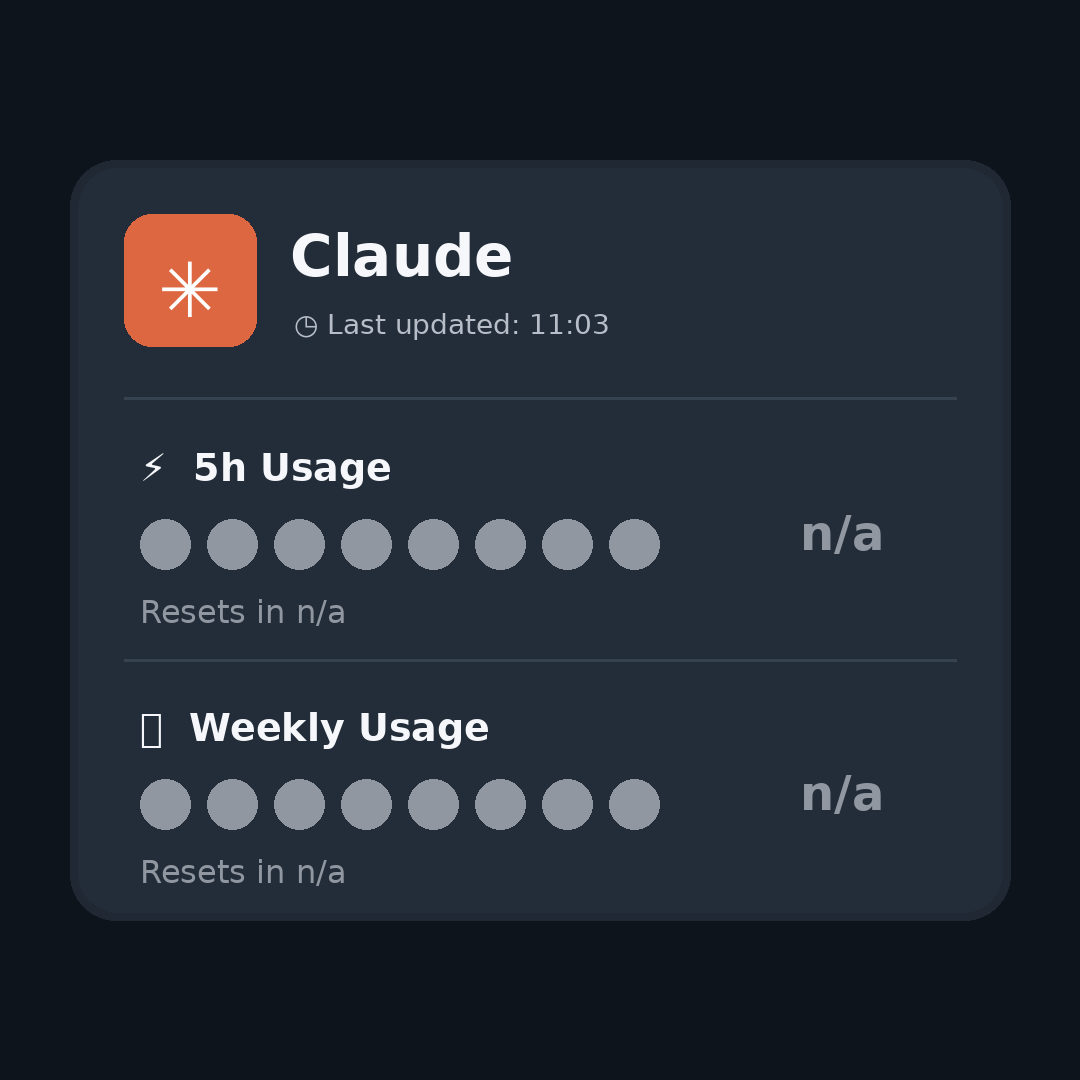
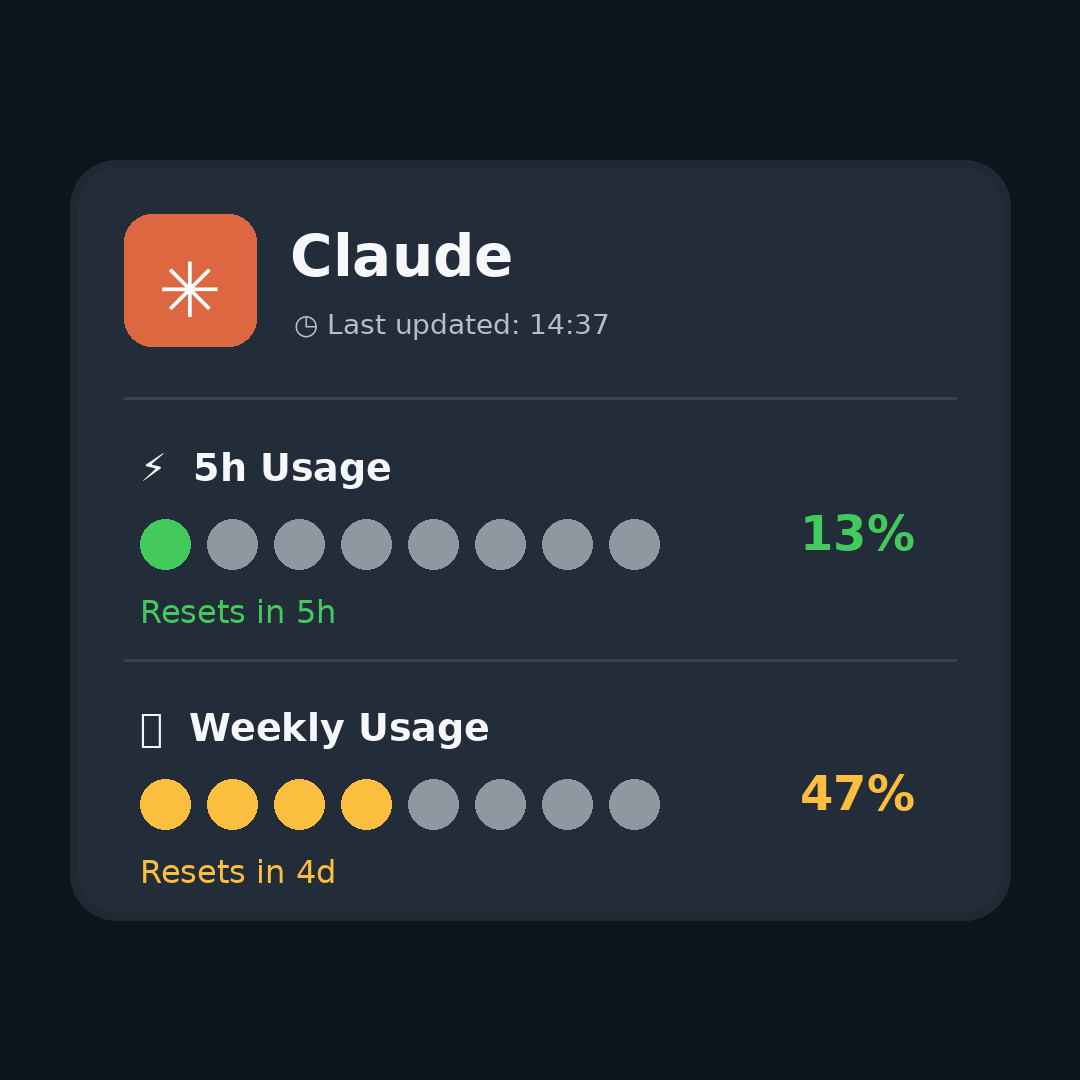
fix claude data: scraper URL matching, bad dump detection, session sync from project files
- usage-page-scrape.py: match claude.ai/new#settings/usage (hash-routing URL)
  in addition to claude.ai/settings/usage; warn when scraped body lacks
  expected content (catches wrong-tab captures like ChatGPT content)
- sync-usage-percentages.py: strip # header comment lines before provider
  detection so the marker comment never triggers a false match
- sync-usage.py: read Claude sessions from ~/.claude/projects/**/<session>.jsonl
  instead of the defunct token-usage.jsonl; add cwd_from_project_dir() to
  resolve ambiguous hyphen-encoded paths via filesystem existence checks

diff --git a/scripts/sync-usage.py b/scripts/sync-usage.py
@@ -5,7 +5,7 @@
 This script is the canonical local ingestion layer for AI Token Tracker.
 
 It reads:
-- Claude Code usage snapshots from ~/.claude/token-usage.jsonl
+- Claude Code usage snapshots from ~/.claude/projects/**/<session>.jsonl
 - Codex CLI thread usage from ~/.codex/state_5.sqlite
 
 It writes normalized rows into usage_sessions.
@@ -36,7 +36,7 @@ PROJECT_DIR = Path(__file__).resolve().parents[1]
 DB_PATH = PROJECT_DIR / "usage.sqlite"
 
 CLAUDE_DIR = HOME / ".claude"
-CLAUDE_TOKEN_LOG = CLAUDE_DIR / "token-usage.jsonl"
+CLAUDE_PROJECTS_DIR = CLAUDE_DIR / "projects"
 
 CODEX_DB = HOME / ".codex" / "state_5.sqlite"
 
@@ -262,103 +262,132 @@ def insert_session_snapshot(conn: sqlite3.Connection, row: dict[str, Any]) -> No
     )
 
 
-def load_latest_claude_snapshots() -> dict[str, dict[str, Any]]:
-    """Load the latest Claude usage snapshot per session id."""
-    latest_by_session: dict[str, dict[str, Any]] = {}
+def cwd_from_project_dir(dir_name: str) -> str:
+    """Decode a Claude project directory name back to its filesystem path.
 
-    if not CLAUDE_TOKEN_LOG.exists():
-        return latest_by_session
+    Claude Code encodes the cwd by stripping the leading '/' and replacing
+    all '/' with '-'.  This is ambiguous when directory names contain '-'.
+    We resolve ambiguity by recursively checking which candidate paths
+    actually exist on disk.
+    """
+    if not dir_name.startswith("-"):
+        return dir_name
 
-    with CLAUDE_TOKEN_LOG.open() as f:
-        for line in f:
-            line = line.strip()
-            if not line:
-                continue
+    parts = dir_name[1:].split("-")
 
-            try:
-                entry = json.loads(line)
-            except json.JSONDecodeError:
-                continue
+    def find_paths(i: int, current: str) -> list[str]:
+        if i == len(parts):
+            return [current]
+        results: list[str] = []
+        for j in range(i + 1, len(parts) + 1):
+            component = "-".join(parts[i:j])
+            candidate = current + "/" + component
+            if j == len(parts):
+                results.append(candidate)
+            elif Path(candidate).is_dir():
+                results.extend(find_paths(j, candidate))
+        return results
 
-            sid = entry.get("session_id")
-            ts = entry.get("timestamp")
-
-            if not sid or not ts:
-                continue
-
-            current = latest_by_session.get(sid)
-            if current is None or ts > current.get("timestamp", ""):
-                latest_by_session[sid] = entry
-
-    return latest_by_session
+    paths = find_paths(0, "")
+    existing = [p for p in paths if Path(p).exists()]
+    if existing:
+        # Prefer the path with the most hyphens (fewest path components — more
+        # parts were merged into hyphenated names, which is the common case).
+        return max(existing, key=lambda p: p.count("-"))
+    return paths[0] if paths else "/" + "/".join(parts)
 
 
 def sync_claude(conn: sqlite3.Connection) -> SyncResult:
-    if not CLAUDE_TOKEN_LOG.exists():
-        return SyncResult("claude", 0, False, CLAUDE_TOKEN_LOG)
+    if not CLAUDE_PROJECTS_DIR.exists():
+        return SyncResult("claude", 0, False, CLAUDE_PROJECTS_DIR)
 
     latest_by_session: dict[str, dict[str, Any]] = {}
     synced_snapshots = 0
 
-    with CLAUDE_TOKEN_LOG.open() as f:
-        for line in f:
-            line = line.strip()
-            if not line:
-                continue
+    for project_dir in CLAUDE_PROJECTS_DIR.iterdir():
+        if not project_dir.is_dir():
+            continue
+
+        cwd = cwd_from_project_dir(project_dir.name)
+
+        for session_file in project_dir.glob("*.jsonl"):
+            session_id = session_file.stem
+            first_ts: str | None = None
+            last_ts: str | None = None
+            total_input = total_output = total_cache_read = total_cache_write = 0
+            model: str | None = None
 
             try:
-                entry = json.loads(line)
-            except json.JSONDecodeError:
+                with session_file.open(errors="replace") as f:
+                    for line in f:
+                        line = line.strip()
+                        if not line:
+                            continue
+                        try:
+                            obj = json.loads(line)
+                        except json.JSONDecodeError:
+                            continue
+
+                        ts = obj.get("timestamp")
+                        if ts:
+                            if first_ts is None:
+                                first_ts = ts
+                            if last_ts is None or ts > last_ts:
+                                last_ts = ts
+
+                        if obj.get("type") == "assistant":
+                            msg = obj.get("message", {})
+                            if isinstance(msg, dict):
+                                usage = msg.get("usage", {})
+                                if usage:
+                                    total_input += as_int(usage.get("input_tokens"))
+                                    total_output += as_int(usage.get("output_tokens"))
+                                    total_cache_read += as_int(usage.get("cache_read_input_tokens"))
+                                    total_cache_write += as_int(usage.get("cache_creation_input_tokens"))
+                                    if not model:
+                                        model = msg.get("model")
+            except (OSError, IOError):
                 continue
 
-            sid = entry.get("session_id")
-            ts = entry.get("timestamp")
-
-            if not sid or not ts:
+            if first_ts is None:
                 continue
 
-            cwd = entry.get("cwd", "")
-
-            input_tokens = as_int(entry.get("input_tokens"))
-            output_tokens = as_int(entry.get("output_tokens"))
-            cache_write = as_int(entry.get("cache_creation_input_tokens"))
-            cache_read = as_int(entry.get("cache_read_input_tokens"))
-
-            main_total = input_tokens + output_tokens
-            full_total = input_tokens + output_tokens + cache_read + cache_write
+            ts = last_ts or first_ts
+            main_total = total_input + total_output
+            full_total = total_input + total_output + total_cache_read + total_cache_write
 
             row = {
                 "tool": "claude",
-                "session_id": sid,
+                "session_id": session_id,
                 "date": timestamp_day(ts),
                 "timestamp": ts,
                 "project": project_from_cwd(cwd),
                 "cwd": cwd,
-                "model": entry.get("model") or "sonnet-4.6",
-                "reasoning_effort": entry.get("reasoning_effort") or "",
-                "input_tokens": input_tokens,
-                "output_tokens": output_tokens,
-                "cache_read_tokens": cache_read,
-                "cache_write_tokens": cache_write,
+                "model": model or "unknown",
+                "reasoning_effort": "",
+                "input_tokens": total_input,
+                "output_tokens": total_output,
+                "cache_read_tokens": total_cache_read,
+                "cache_write_tokens": total_cache_write,
                 "main_total_tokens": main_total,
                 "full_total_tokens": full_total,
                 "reported_total_tokens": main_total,
-                "cost_usd": claude_cost(input_tokens, output_tokens, cache_read, cache_write),
+                "cost_usd": claude_cost(total_input, total_output, total_cache_read, total_cache_write),
                 "live": 0,
             }
 
             insert_session_snapshot(conn, row)
             synced_snapshots += 1
 
-            current = latest_by_session.get(sid)
+            current = latest_by_session.get(session_id)
             if current is None or ts > current.get("timestamp", ""):
-                latest_by_session[sid] = row
+                latest_by_session[session_id] = row
 
     for row in latest_by_session.values():
         upsert_session(conn, row)
 
     conn.commit()
-    return SyncResult("claude", synced_snapshots, True, CLAUDE_TOKEN_LOG)
+    return SyncResult("claude", synced_snapshots, True, CLAUDE_PROJECTS_DIR)
 
 
 def sync_codex(conn: sqlite3.Connection) -> SyncResult:

diff --git a/scripts/usage-page-scrape.py b/scripts/usage-page-scrape.py
@@ -21,13 +21,19 @@ DUMP_DIR = PROJECT_DIR / "usage-dumps"
 CHROME_CDP_URL = os.environ.get("AI_TOKENS_CHROME_CDP_URL", "http://127.0.0.1:9222")
 
 TARGETS = {
-    "codex": "chatgpt.com/codex/cloud/settings/analytics",
-    "claude": "claude.ai/settings/usage",
+    "codex": ["chatgpt.com/codex/cloud/settings/analytics"],
+    "claude": ["claude.ai/settings/usage", "claude.ai/new#settings/usage"],
 }
 
 PAGE_MARKERS = {
     "codex": "Codex Analytics",
     "claude": "Plan Usage Limits",
+}
+
+# Strings that must appear in the page body for the dump to be considered valid.
+CONTENT_CHECKS = {
+    "codex": ["codex analytics"],
+    "claude": ["plan usage limits"],
 }
 
 
@@ -60,7 +66,8 @@ def normalize_url(url: str) -> str:
 
 
 def page_matches(name: str, url: str) -> bool:
-    return TARGETS[name] in normalize_url(url)
+    normalized = normalize_url(url)
+    return any(pattern in normalized for pattern in TARGETS[name])
 
 
 def iter_existing_pages(browser) -> Iterable[tuple[str, Any]]:
@@ -85,7 +92,16 @@ def scrape_page(name: str, page) -> Path:
 
     lowered = text.lower()
     if "log in" in lowered or "sign in" in lowered or "continue with google" in lowered:
-        print(f"{name}: login page detected in existing tab; dump still written for inspection.", flush=True)
+        print(f"WARNING {name}: login page detected — tab may not be authenticated.", flush=True)
+
+    for check in CONTENT_CHECKS[name]:
+        if check not in lowered:
+            print(
+                f"WARNING {name}: expected content '{check}' not found in page body. "
+                f"Tab may have navigated away or shows wrong content.",
+                flush=True,
+            )
+            break
 
     dump_file = write_dump(name, url, text)
     print(f"{name}: wrote {dump_file}", flush=True)

diff --git a/scripts/sync-usage-percentages.py b/scripts/sync-usage-percentages.py
@@ -381,7 +381,9 @@ def parse_claude(text: str, observed_at: datetime) -> ParsedUsageSnapshot:
 
 
 def detect_provider(text: str) -> Provider | None:
-    low = text.lower()
+    # Strip header comment lines so we don't match the "# marker=Plan Usage Limits" comment.
+    body_lines = [line for line in text.splitlines() if not line.startswith("#")]
+    low = "\n".join(body_lines).lower()
 
     if "codex analytics" in low or ("5 hour usage limit" in low and "weekly usage limit" in low):
         return "codex"

diff --git a/ISSUES.md b/ISSUES.md
@@ -5,6 +5,8 @@
 
   pkill chrome || pkill google-chrome || true
   google-chrome --remote-debugging-port=9222
+  or
+  google-chrome --remote-debugging-port=9222 -user-data-dir=Profile 1
 
   Then, in that Chrome instance:
 
